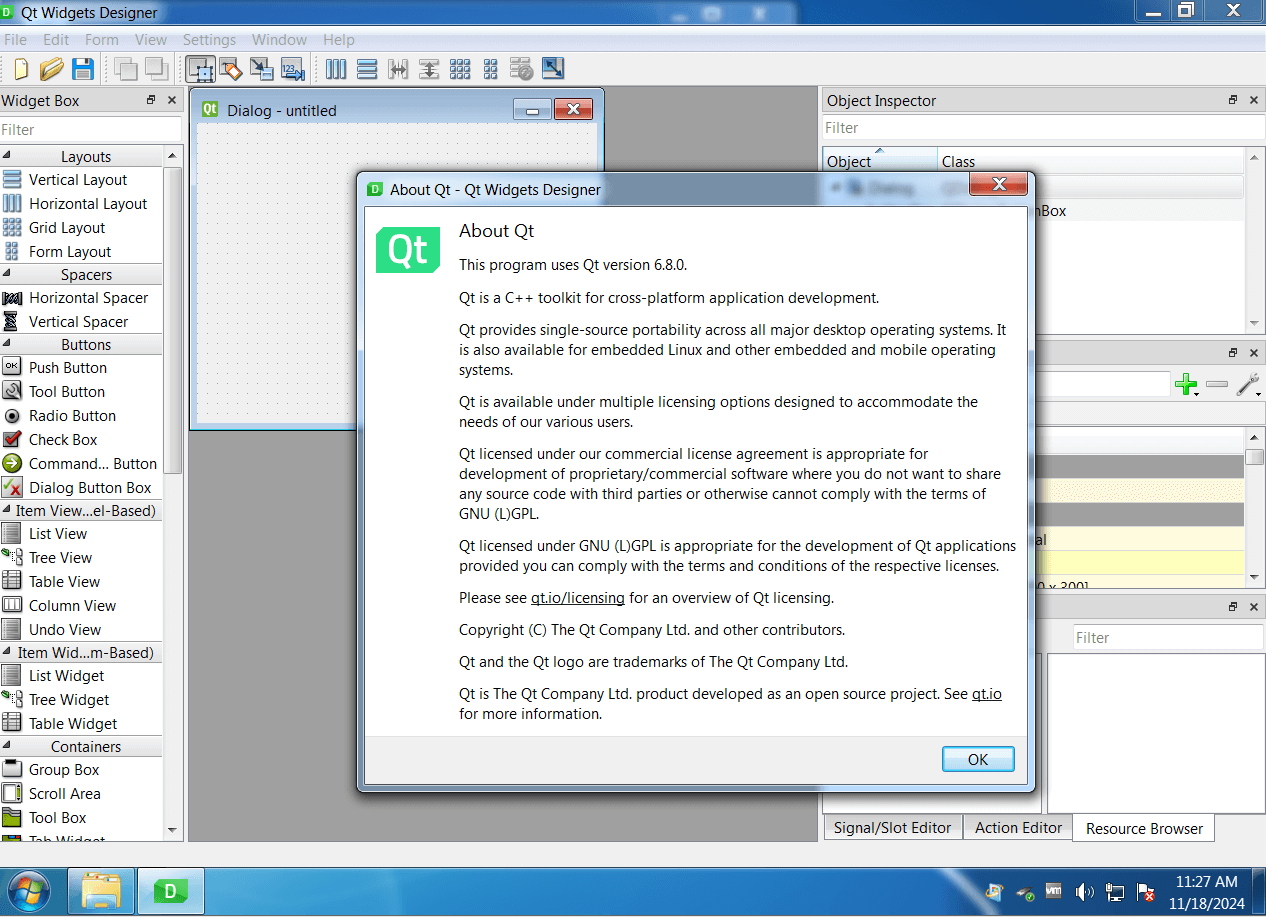
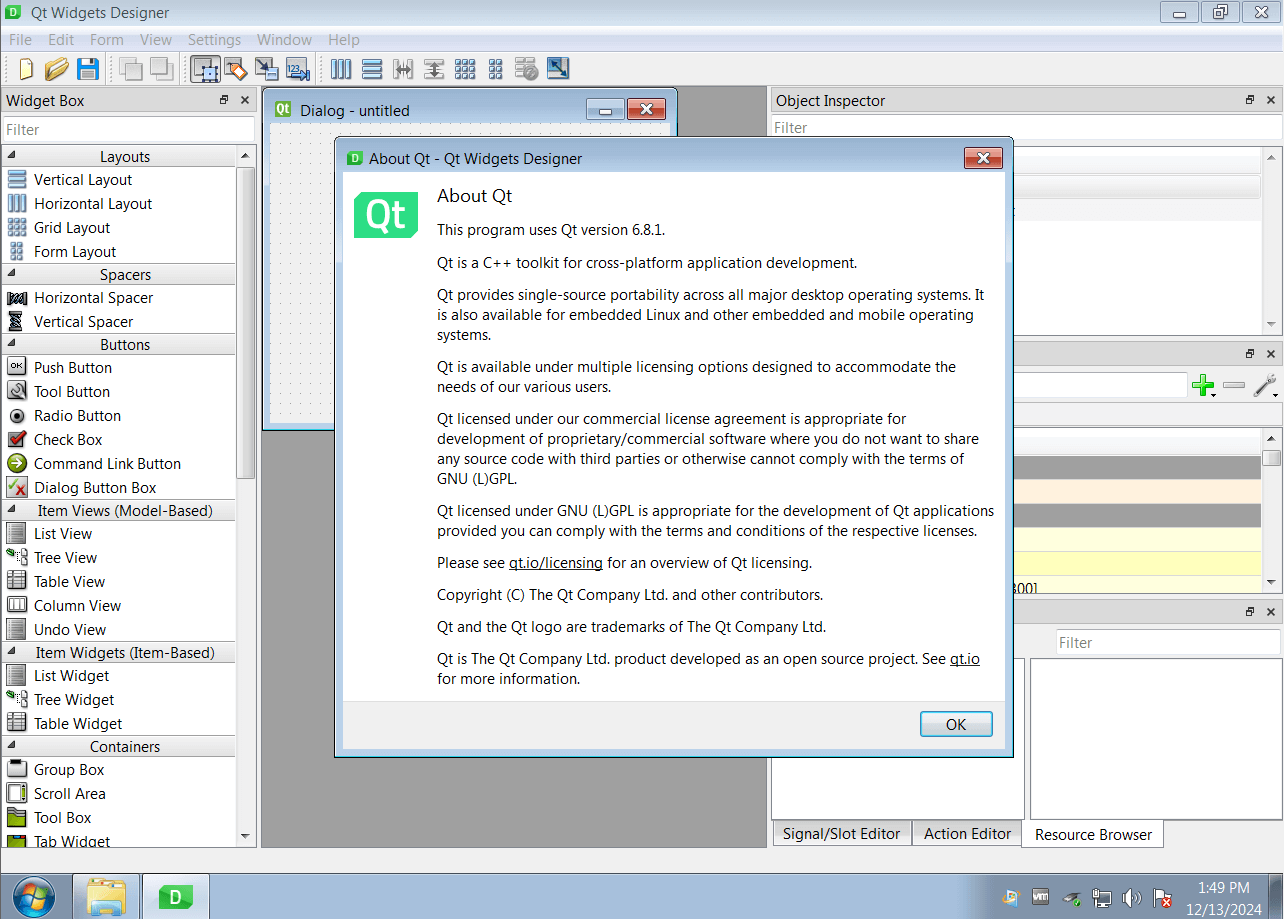
Qt 6.8.1

diff --git a/qtbase/src/plugins/platforms/windows/qwindowswindow.cpp b/qtbase/src/plugins/platforms/windows/qwindowswindow.cpp
@@ -1401,10 +1401,12 @@ void QWindowsForeignWindow::setParent(const QPlatformWindow *newParentWindow)
     const HWND newParent = newParentWindow ? reinterpret_cast<HWND>(newParentWindow->winId()) : HWND(nullptr);
     const bool isTopLevel = !newParent;
     const DWORD oldStyle = style();
+
     qCDebug(lcQpaWindow) << __FUNCTION__ << window() << "newParent="
         << newParentWindow << newParent << "oldStyle=" << debugWinStyle(oldStyle);
-    SetParent(m_hwnd, newParent);
-    if (wasTopLevel != isTopLevel) { // Top level window flags need to be set/cleared manually.
+
+    auto updateWindowFlags = [=]{
+        // Top level window flags need to be set/cleared manually.
         DWORD newStyle = oldStyle;
         if (isTopLevel) {
             newStyle = m_topLevelStyle;
@@ -1414,6 +1416,20 @@ void QWindowsForeignWindow::setParent(const QPlatformWindow *newParentWindow)
             newStyle |= WS_CHILD;
         }
         SetWindowLongPtr(m_hwnd, GWL_STYLE, newStyle);
+    };
+
+    if (wasTopLevel && !isTopLevel) {
+        // Becoming a child window requires the style
+        // flags to be updated before reparenting.
+        updateWindowFlags();
+    }
+
+    SetParent(m_hwnd, newParent);
+
+    if (!wasTopLevel && isTopLevel) {
+        // Becoming a top level window requires the style
+        // flags to be updated after reparenting.
+        updateWindowFlags();
     }
 }
 
@@ -2496,12 +2512,6 @@ QWindowsWindowData QWindowsWindow::setWindowFlags_sys(Qt::WindowFlags wt,
     return result;
 }
 
-inline bool QWindowsBaseWindow::hasMaximumSize() const
-{
-    const auto maximumSize = window()->maximumSize();
-    return maximumSize.width() != QWINDOWSIZE_MAX || maximumSize.height() != QWINDOWSIZE_MAX;
-}
-
 void QWindowsWindow::handleWindowStateChange(Qt::WindowStates state)
 {
     qCDebug(lcQpaWindow) << __FUNCTION__ << this << window()
@@ -2518,20 +2528,7 @@ void QWindowsWindow::handleWindowStateChange(Qt::WindowStates state)
             GetWindowPlacement(m_data.hwnd, &windowPlacement);
             const RECT geometry = RECTfromQRect(m_data.restoreGeometry);
             windowPlacement.rcNormalPosition = geometry;
-
-            // A bug in windows 10 grows
-            // - ptMaxPosition.x by the task bar's width, if it's on the left
-            // - ptMaxPosition.y by the task bar's height, if it's on the top
-            // each time GetWindowPlacement() is called.
-            // The offset of the screen's left edge (as per frameMargins_sys().left()) is ignored.
-            // => Check for windows 10 and correct.
-            static const auto windows11 = QOperatingSystemVersion::Windows11_21H2;
-            static const bool isWindows10 = QOperatingSystemVersion::current() < windows11;
-            if (isWindows10 && hasMaximumSize()) {
-                const QMargins margins = frameMargins_sys();
-                const QPoint topLeft = window()->screen()->geometry().topLeft();
-                windowPlacement.ptMaxPosition = POINT{ topLeft.x() - margins.left(), topLeft.y() };
-            }
+            correctWindowPlacement(windowPlacement);
 
             // Even if the window is hidden, windowPlacement's showCmd is not SW_HIDE, so change it
             // manually to avoid unhiding a hidden window with the subsequent call to
@@ -2560,6 +2557,65 @@ void QWindowsWindow::handleWindowStateChange(Qt::WindowStates state)
         }
         if (exposeEventsSent && !QWindowsContext::instance()->asyncExpose())
             QWindowSystemInterface::flushWindowSystemEvents(QEventLoop::ExcludeUserInputEvents);
+    }
+}
+
+// Apply corrections to window placement in Windows 10
+// Related to task bar on top or left.
+
+inline bool QWindowsBaseWindow::hasMaximumHeight() const
+{
+    return window()->maximumHeight() != QWINDOWSIZE_MAX;
+}
+
+inline bool QWindowsBaseWindow::hasMaximumWidth() const
+{
+    return window()->maximumWidth() != QWINDOWSIZE_MAX;
+}
+
+inline bool QWindowsBaseWindow::hasMaximumSize() const
+{
+    return hasMaximumHeight() || hasMaximumWidth();
+}
+
+void QWindowsWindow::correctWindowPlacement(WINDOWPLACEMENT &windowPlacement)
+{
+    static const auto windows11 = QOperatingSystemVersion::Windows11_21H2;
+    static const bool isWindows10 = QOperatingSystemVersion::current() < windows11;
+    if (!isWindows10)
+        return;
+
+    // Correct normal position by placement offset on Windows 10
+    // (where task bar can be on any side of the screen)
+    const QPoint offset = windowPlacementOffset(m_data.hwnd, m_data.restoreGeometry.topLeft());
+    windowPlacement.rcNormalPosition = RECTfromQRect(m_data.restoreGeometry.translated(-offset));
+    qCDebug(lcQpaWindow) << "Corrected normal position by" << -offset;
+
+    // A bug in windows 10 grows
+    // - ptMaxPosition.x by the task bar's width, if it's on the left
+    // - ptMaxPosition.y by the task bar's height, if it's on the top
+    // each time GetWindowPlacement() is called.
+    // The offset of the screen's left edge (as per frameMargins_sys().left()) is ignored.
+    // => Check for windows 10 and correct.
+    if (hasMaximumSize()) {
+        const QMargins margins = frameMargins_sys();
+        const QPoint topLeft = window()->screen()->geometry().topLeft();
+        windowPlacement.ptMaxPosition = POINT{ topLeft.x() - margins.left(), topLeft.y() };
+        qCDebug(lcQpaWindow) << "Window has maximum size. Corrected topLeft by"
+                             << -margins.left();
+
+        // If there is a placement offset correct width/height unless restricted,
+        // in order to fit window onto the screen.
+        if (offset.x() > 0 && !hasMaximumWidth()) {
+            const int adjust = offset.x() / window()->devicePixelRatio();
+            window()->setWidth(window()->width() - adjust);
+            qCDebug(lcQpaWindow) << "Width shortened by" << adjust << "logical pixels.";
+        }
+        if (offset.y() > 0 && !hasMaximumHeight()) {
+            const int adjust = offset.y() / window()->devicePixelRatio();
+            window()->setHeight(window()->height() - adjust);
+            qCDebug(lcQpaWindow) << "Height shortened by" << adjust << "logical pixels.";
+        }
     }
 }
 
@@ -2707,8 +2763,24 @@ void QWindowsWindow::setWindowState_sys(Qt::WindowStates newState)
             setFlag(WithinMaximize);
             if (newState & Qt::WindowFullScreen)
                 setFlag(MaximizeToFullScreen);
-            ShowWindow(m_data.hwnd,
-                       (newState & Qt::WindowMaximized) ? SW_MAXIMIZE : SW_SHOWNOACTIVATE);
+            if (m_data.flags & Qt::FramelessWindowHint) {
+                if (newState == Qt::WindowNoState) {
+                    const QRect &rect = m_savedFrameGeometry;
+                    MoveWindow(m_data.hwnd, rect.x(), rect.y(), rect.width(), rect.height(), true);
+                } else {
+                    HMONITOR monitor = MonitorFromWindow(m_data.hwnd, MONITOR_DEFAULTTONEAREST);
+                    MONITORINFO monitorInfo = {};
+                    monitorInfo.cbSize = sizeof(MONITORINFO);
+                    GetMonitorInfo(monitor, &monitorInfo);
+                    const RECT &rect = monitorInfo.rcWork;
+                    m_savedFrameGeometry = geometry();
+                    MoveWindow(m_data.hwnd, rect.left, rect.top,
+                               rect.right - rect.left, rect.bottom - rect.top, true);
+                }
+            } else {
+                ShowWindow(m_data.hwnd,
+                           (newState & Qt::WindowMaximized) ? SW_MAXIMIZE : SW_SHOWNOACTIVATE);
+            }
             clearFlag(WithinMaximize);
             clearFlag(MaximizeToFullScreen);
         } else if (visible && (oldState & newState & Qt::WindowMinimized)) {

diff --git a/qtbase/src/corelib/thread/qthread_win.cpp b/qtbase/src/corelib/thread/qthread_win.cpp
@@ -76,7 +76,7 @@ QThreadData *QThreadData::current(bool createIfNecessary)
         // avoid recursion.
         TlsSetValue(qt_current_thread_data_tls_index, threadData);
         QT_TRY {
-            threadData->thread = new QAdoptedThread(threadData);
+            threadData->thread.storeRelease(new QAdoptedThread(threadData));
         } QT_CATCH(...) {
             TlsSetValue(qt_current_thread_data_tls_index, 0);
             threadData->deref();
@@ -101,7 +101,7 @@ QThreadData *QThreadData::current(bool createIfNecessary)
                     0,
                     FALSE,
                     DUPLICATE_SAME_ACCESS);
-            qt_watch_adopted_thread(realHandle, threadData->thread);
+            qt_watch_adopted_thread(realHandle, threadData->thread.loadRelaxed());
         }
     }
     return threadData;
@@ -209,7 +209,7 @@ DWORD WINAPI qt_adopted_thread_watcher_function(LPVOID)
             auto thread_p = static_cast<QThreadPrivate *>(QObjectPrivate::get(thread));
             Q_UNUSED(thread_p);
             Q_ASSERT(!thread_p->finished);
-            QThreadPrivate::finish(thread);
+            thread_p->finish();
         }
         data->deref();
 
@@ -282,7 +282,6 @@ void qt_set_thread_name(HANDLE threadId, const QString &name)
     }
 }
 
-
 /**************************************************************************
  ** QThreadPrivate
  *************************************************************************/
@@ -326,7 +325,7 @@ unsigned int __stdcall QT_ENSURE_STACK_ALIGNED_FOR_SSE QThreadPrivate::start(voi
     QThread::setTerminationEnabled(true);
     thr->run();
 
-    finish(arg);
+    thr->d_func()->finish();
     return 0;
 }
 
@@ -341,10 +340,10 @@ unsigned int __stdcall QT_ENSURE_STACK_ALIGNED_FOR_SSE QThreadPrivate::start(voi
 
     In those cases, \a arg will not be the current thread.
 */
-void QThreadPrivate::finish(void *arg, bool lockAnyway) noexcept
+void QThreadPrivate::finish(bool lockAnyway) noexcept
 {
-    QThread *thr = reinterpret_cast<QThread *>(arg);
-    QThreadPrivate *d = thr->d_func();
+    QThreadPrivate *d = this;
+    QThread *thr = q_func();
 
     QMutexLocker locker(lockAnyway ? &d->mutex : nullptr);
     d->isInFinish = true;
@@ -538,7 +537,7 @@ void QThread::terminate()
     }
 
     TerminateThread(d->handle, 0);
-    QThreadPrivate::finish(this, false);
+    d->finish(false);
 }
 
 bool QThread::wait(QDeadlineTimer deadline)
@@ -552,6 +551,13 @@ bool QThread::wait(QDeadlineTimer deadline)
     }
     if (d->finished || !d->running)
         return true;
+    return d->wait(locker, deadline);
+}
+
+bool QThreadPrivate::wait(QMutexLocker<QMutex> &locker, QDeadlineTimer deadline)
+{
+    Q_ASSERT(locker.isLocked());
+    QThreadPrivate *d = this;
 
     ++d->waiters;
     locker.mutex()->unlock();
@@ -576,7 +582,7 @@ bool QThread::wait(QDeadlineTimer deadline)
     if (ret && !d->finished) {
         // thread was terminated by someone else
 
-        QThreadPrivate::finish(this, false);
+        d->finish(false);
     }
 
     if (d->finished && !d->waiters) {
@@ -596,7 +602,7 @@ void QThread::setTerminationEnabled(bool enabled)
     QMutexLocker locker(&d->mutex);
     d->terminationEnabled = enabled;
     if (enabled && d->terminatePending) {
-        QThreadPrivate::finish(thr, false);
+        d->finish(false);
         locker.unlock(); // don't leave the mutex locked!
         _endthreadex(0);
     }

diff --git a/qtbase/src/plugins/platforms/windows/qwindowstheme.cpp b/qtbase/src/plugins/platforms/windows/qwindowstheme.cpp
@@ -501,7 +501,8 @@ QWindowsTheme *QWindowsTheme::m_instance = nullptr;
 QWindowsTheme::QWindowsTheme()
 {
     m_instance = this;
-    s_colorScheme = QWindowsTheme::queryColorScheme();
+    s_colorScheme = Qt::ColorScheme::Unknown; // Used inside QWindowsTheme::effectiveColorScheme();
+    s_colorScheme = QWindowsTheme::effectiveColorScheme();
     std::fill(m_fonts, m_fonts + NFonts, nullptr);
     std::fill(m_palettes, m_palettes + NPalettes, nullptr);
     refresh();
@@ -596,12 +597,15 @@ Qt::ColorScheme QWindowsTheme::colorScheme() const
 
 Qt::ColorScheme QWindowsTheme::effectiveColorScheme()
 {
+    auto integration = QWindowsIntegration::instance();
     if (queryHighContrast())
         return Qt::ColorScheme::Unknown;
     if (s_colorSchemeOverride != Qt::ColorScheme::Unknown)
         return s_colorSchemeOverride;
     if (s_colorScheme != Qt::ColorScheme::Unknown)
         return s_colorScheme;
+    if (!integration->darkModeHandling().testFlag(QWindowsApplication::DarkModeStyle))
+        return Qt::ColorScheme::Light;
     return queryColorScheme();
 }
 
@@ -1186,9 +1190,11 @@ Qt::ColorScheme QWindowsTheme::queryColorScheme()
     if (queryHighContrast())
         return Qt::ColorScheme::Unknown;
 
-    const auto setting = QWinRegistryKey(HKEY_CURRENT_USER, LR"(Software\Microsoft\Windows\CurrentVersion\Themes\Personalize)")
-                         .dwordValue(L"AppsUseLightTheme");
-    return setting.second && setting.first == 0 ? Qt::ColorScheme::Dark : Qt::ColorScheme::Light;
+    QWinRegistryKey personalizeKey{
+        HKEY_CURRENT_USER, LR"(Software\Microsoft\Windows\CurrentVersion\Themes\Personalize)"
+    };
+    const bool useDarkTheme = personalizeKey.value<DWORD>(L"AppsUseLightTheme") == 0;
+    return useDarkTheme ? Qt::ColorScheme::Dark : Qt::ColorScheme::Light;
 }
 
 bool QWindowsTheme::queryHighContrast()

diff --git a/qtbase/src/gui/rhi/qrhid3d11.cpp b/qtbase/src/gui/rhi/qrhid3d11.cpp
@@ -3312,6 +3312,10 @@ bool QD3D11Texture::prepareCreate(QSize *adjustedSize)
     if (tex || tex3D || tex1D)
         destroy();
 
+    QRHI_RES_RHI(QRhiD3D11);
+    if (!rhiD->isTextureFormatSupported(m_format, m_flags))
+        return false;
+
     const bool isDepth = isDepthTextureFormat(m_format);
     const bool isCube = m_flags.testFlag(CubeMap);
     const bool is3D = m_flags.testFlag(ThreeDimensional);
@@ -3322,7 +3326,6 @@ bool QD3D11Texture::prepareCreate(QSize *adjustedSize)
     const QSize size = is1D ? QSize(qMax(1, m_pixelSize.width()), 1)
                             : (m_pixelSize.isEmpty() ? QSize(1, 1) : m_pixelSize);
 
-    QRHI_RES_RHI(QRhiD3D11);
     dxgiFormat = toD3DTextureFormat(m_format, m_flags);
     mipLevelCount = uint(hasMipMaps ? rhiD->q->mipLevelsForSize(size) : 1);
     sampleDesc = rhiD->effectiveSampleDesc(m_sampleCount);

diff --git a/qtbase/src/gui/rhi/qrhid3d12.cpp b/qtbase/src/gui/rhi/qrhid3d12.cpp
@@ -4210,6 +4210,10 @@ bool QD3D12Texture::prepareCreate(QSize *adjustedSize)
     if (!handle.isNull())
         destroy();
 
+    QRHI_RES_RHI(QRhiD3D12);
+    if (!rhiD->isTextureFormatSupported(m_format, m_flags))
+        return false;
+
     const bool isDepth = isDepthTextureFormat(m_format);
     const bool isCube = m_flags.testFlag(CubeMap);
     const bool is3D = m_flags.testFlag(ThreeDimensional);
@@ -4240,7 +4244,7 @@ bool QD3D12Texture::prepareCreate(QSize *adjustedSize)
         else
             srvFormat = toD3DTextureFormat(m_readViewFormat.format, m_readViewFormat.srgb ? sRGB : Flags());
     }
-    QRHI_RES_RHI(QRhiD3D12);
+    
     mipLevelCount = uint(hasMipMaps ? rhiD->q->mipLevelsForSize(size) : 1);
     sampleDesc = rhiD->effectiveSampleDesc(m_sampleCount, dxgiFormat);
     if (sampleDesc.Count > 1) {

diff --git a/qtbase/src/plugins/platforms/windows/qwindowscontext.cpp b/qtbase/src/plugins/platforms/windows/qwindowscontext.cpp
@@ -1562,11 +1562,9 @@ void QWindowsContext::setAsyncExpose(bool value)
 
 DWORD QWindowsContext::readAdvancedExplorerSettings(const wchar_t *subKey, DWORD defaultValue)
 {
-    const auto value =
-        QWinRegistryKey(HKEY_CURRENT_USER,
-                        LR"(Software\Microsoft\Windows\CurrentVersion\Explorer\Advanced)")
-                       .dwordValue(subKey);
-    return value.second ? value.first : defaultValue;
+    const auto advancedSettings = QWinRegistryKey(
+            HKEY_CURRENT_USER, LR"(Software\Microsoft\Windows\CurrentVersion\Explorer\Advanced)");
+    return advancedSettings.value<DWORD>(subKey).value_or(defaultValue);
 }
 
 static inline bool isEmptyRect(const RECT &rect)

diff --git a/README.md b/README.md
@@ -1,15 +1,15 @@
-This repository provides a backport of the Qt 6.8.0 qtbase module, tailored for compatibility with Windows 7 and 8. It contains patched source files from the qtbase module, along with some additional required files. To apply the backport, simply copy the contents of the src folder into your qtbase/src directory, replacing the existing files.
+This repository provides a backport of the Qt 6.8.1 qtbase module, tailored for compatibility with Windows 7 and 8. It contains patched source files from the qtbase module, along with some additional required files. To apply the backport, simply copy the contents of the src folder into your qtbase/src directory, replacing the existing files.
 
 This approach builds upon the methodology discussed in this forum [thread](https://forum.qt.io/topic/133002/qt-creator-6-0-1-and-qt-6-2-2-running-on-windows-7/60) but offers significant enhancements, including important fallbacks to the default Qt 6 behavior when running on newer versions of Windows.
 
 You have two options for compiling Qt:
 
 - Compile it yourself using your preferred compiler and build options.
-- Use our [compile_win.pl](https://github.com/crystalidea/qt-build-tools/tree/master/6.8.0) build script, which utilizes Visual C++ 2022 and includes OpenSSL 3.0.13 statically linked.
+- Use our [compile_win.pl](https://github.com/crystalidea/qt-build-tools/tree/master/6.8.1) build script, which utilizes Visual C++ 2022 and includes OpenSSL 3.0.13 statically linked.
 
 Alternatively, you can download our [prebuild Qt dlls](https://github.com/crystalidea/qt6windows7/releases), which also include the Qt Designer binary for demonstration purposes.
 
-**Qt 6.8.0 designer running on Windows 7**:
+**Qt 6.8.1 designer running on Windows 7**:
 
 ![Qt Designer](designer.png)
 
@@ -28,7 +28,7 @@ Many of other Qt 6 modules are known to work fine on Windows 7 without modificat
 
 ### Older versions:
 
-- [Qt 6.7.3](https://github.com/crystalidea/qt6windows7/releases/tag/v6.7.3)
+- [Qt 6.8.0](https://github.com/crystalidea/qt6windows7/releases/tag/v6.8.0)
 - [Qt 6.7.2](https://github.com/crystalidea/qt6windows7/releases/tag/v6.7.2)
 - [Qt 6.6.3](https://github.com/crystalidea/qt6windows7/releases/tag/v6.6.3)
 - [Qt 6.6.2](https://github.com/crystalidea/qt6windows7/releases/tag/v6.6.2)
